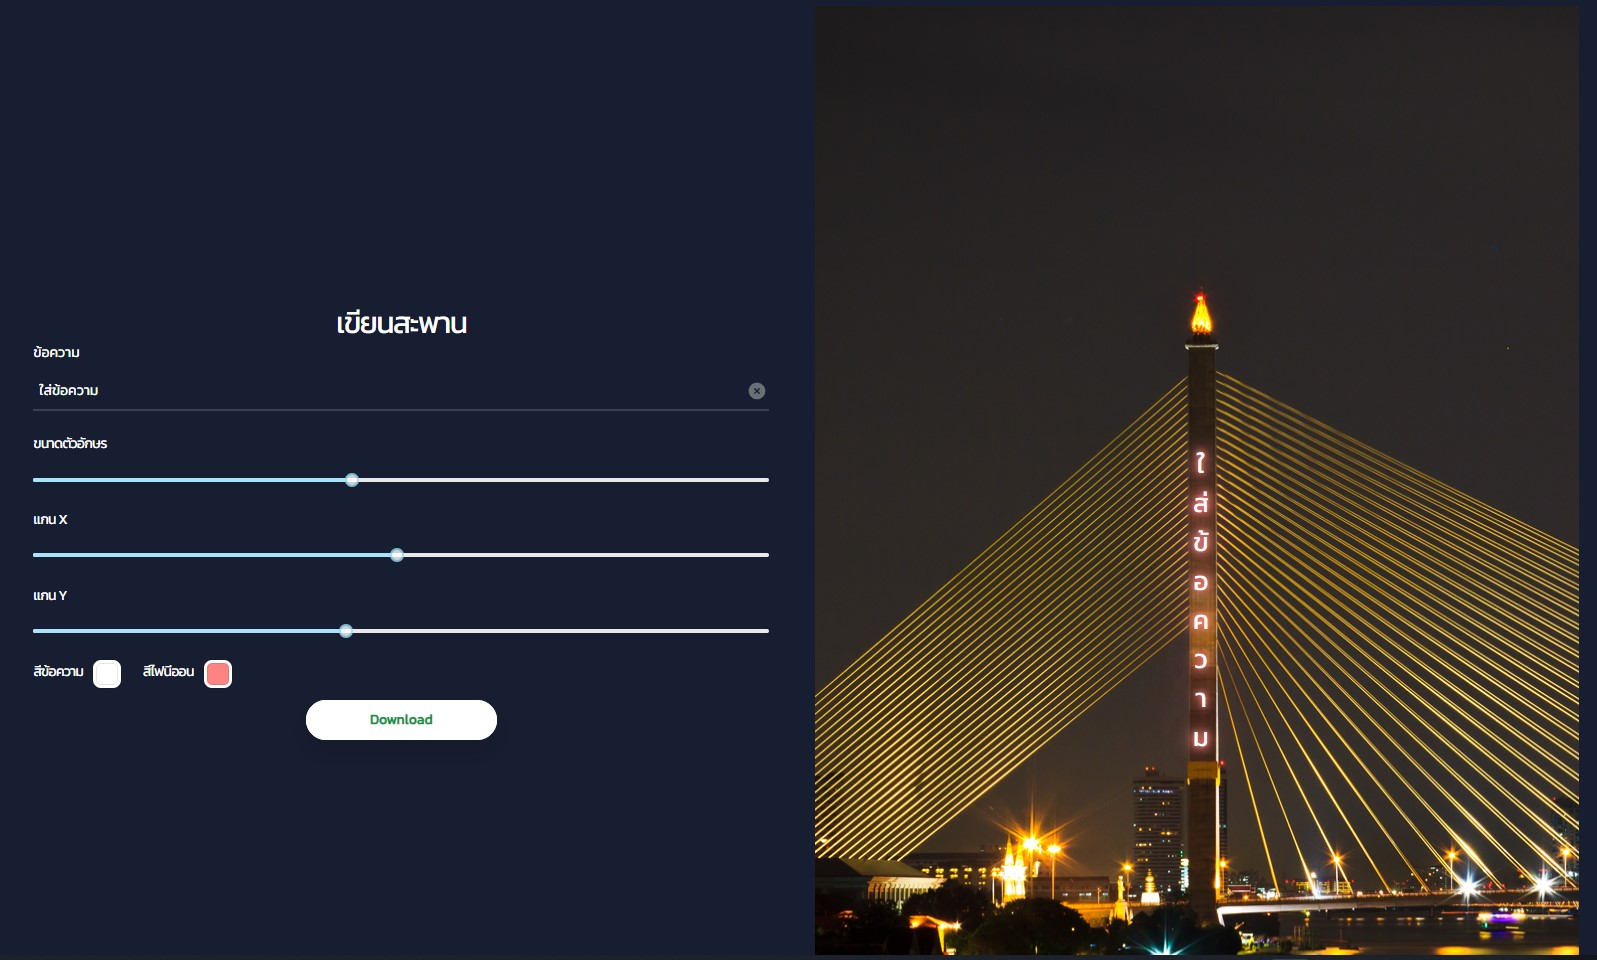
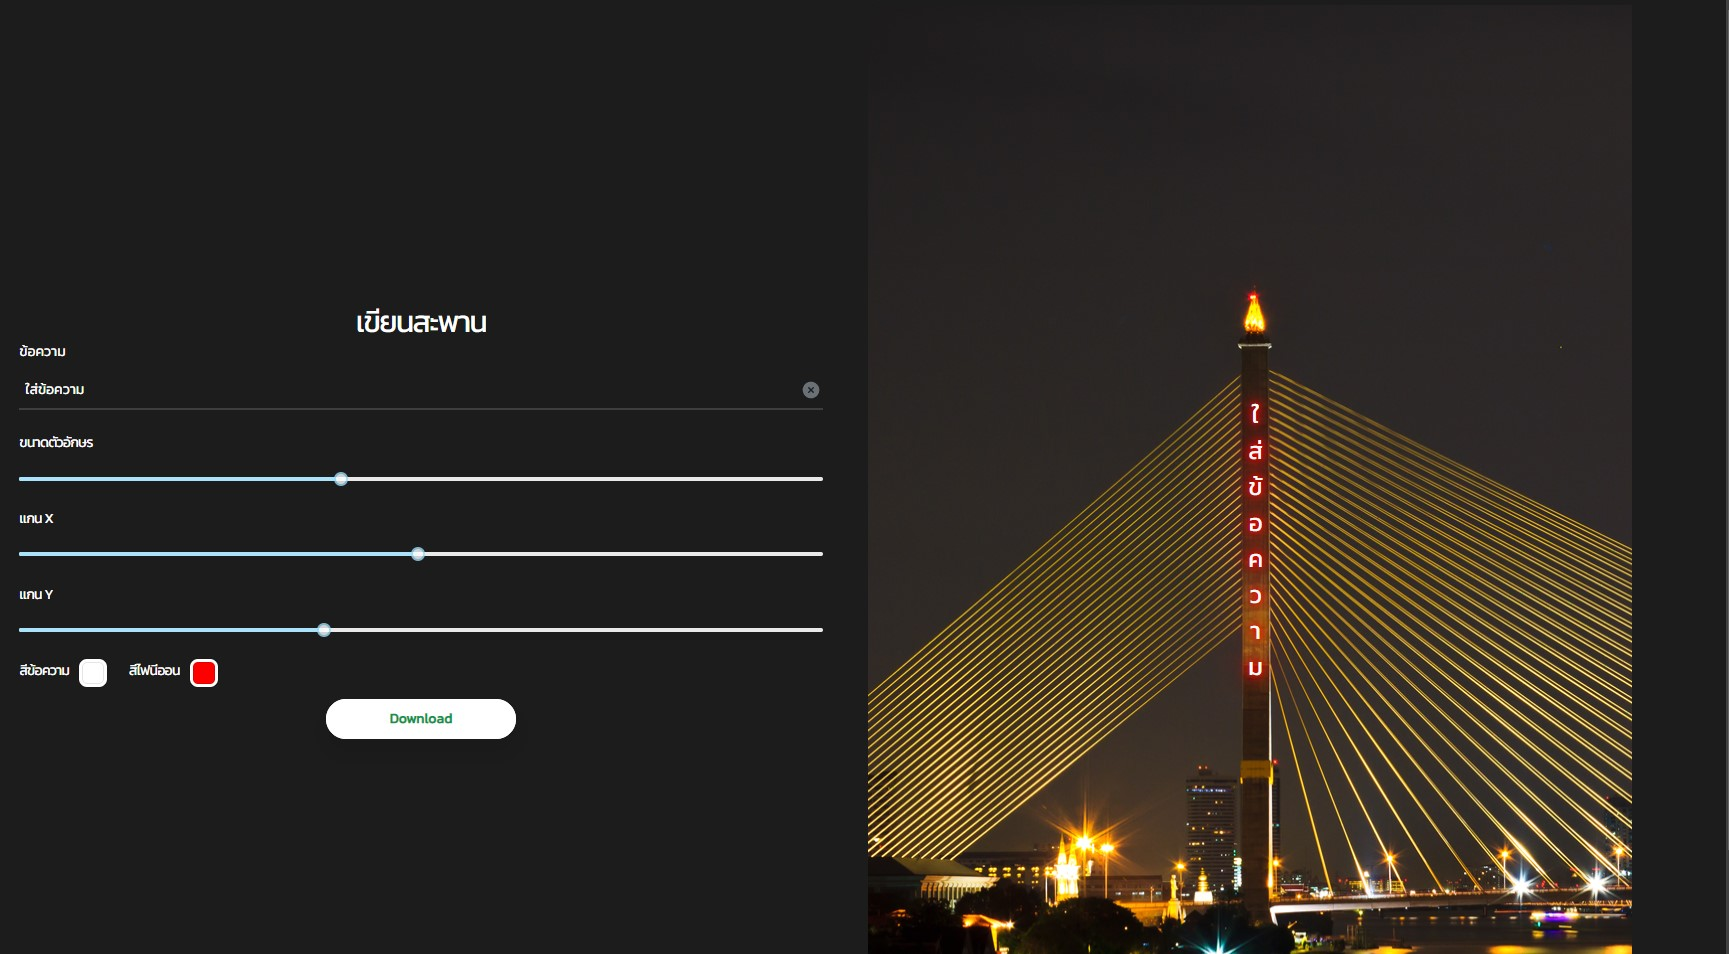
change bg color

diff --git a/src/app/layout.js b/src/app/layout.js
@@ -31,7 +31,7 @@ const myLightTheme = createTheme({
   theme: {
     colors: {
       // brand colors
-      background: '#171E31',
+      background: '#1c1c1c',
       text: 'white',
       bgColor: 'white',
       // bgColorGradient: 'linear-gradient(112deg, $blue100 -25%, $pink500 -10%, $purple500 80%)',
